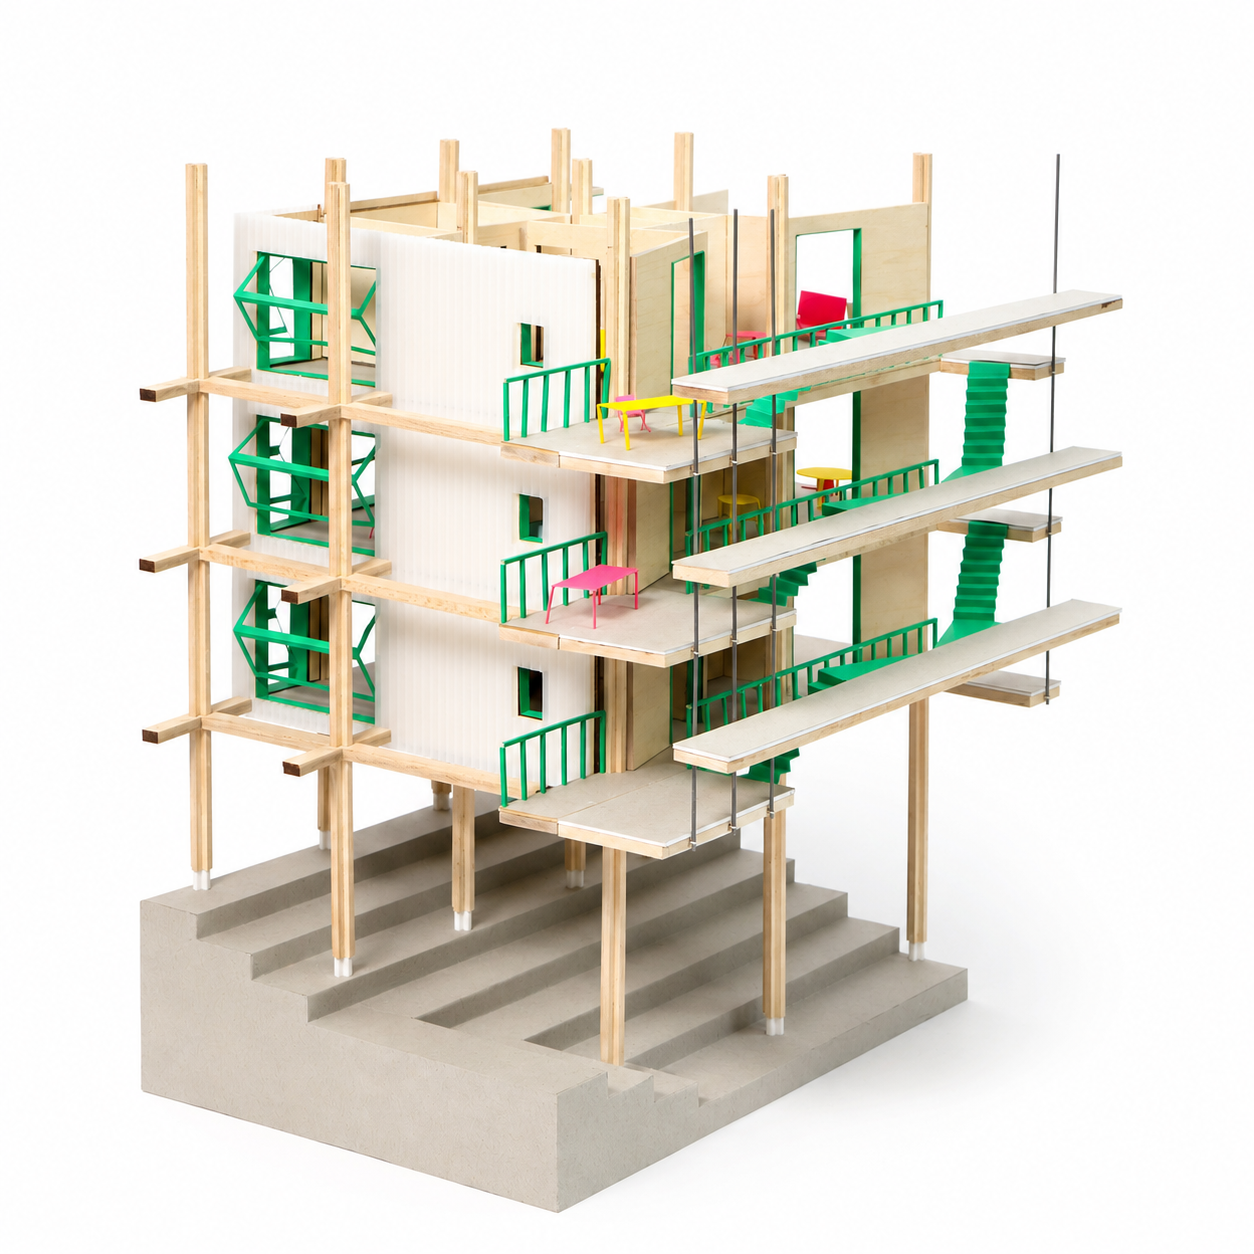
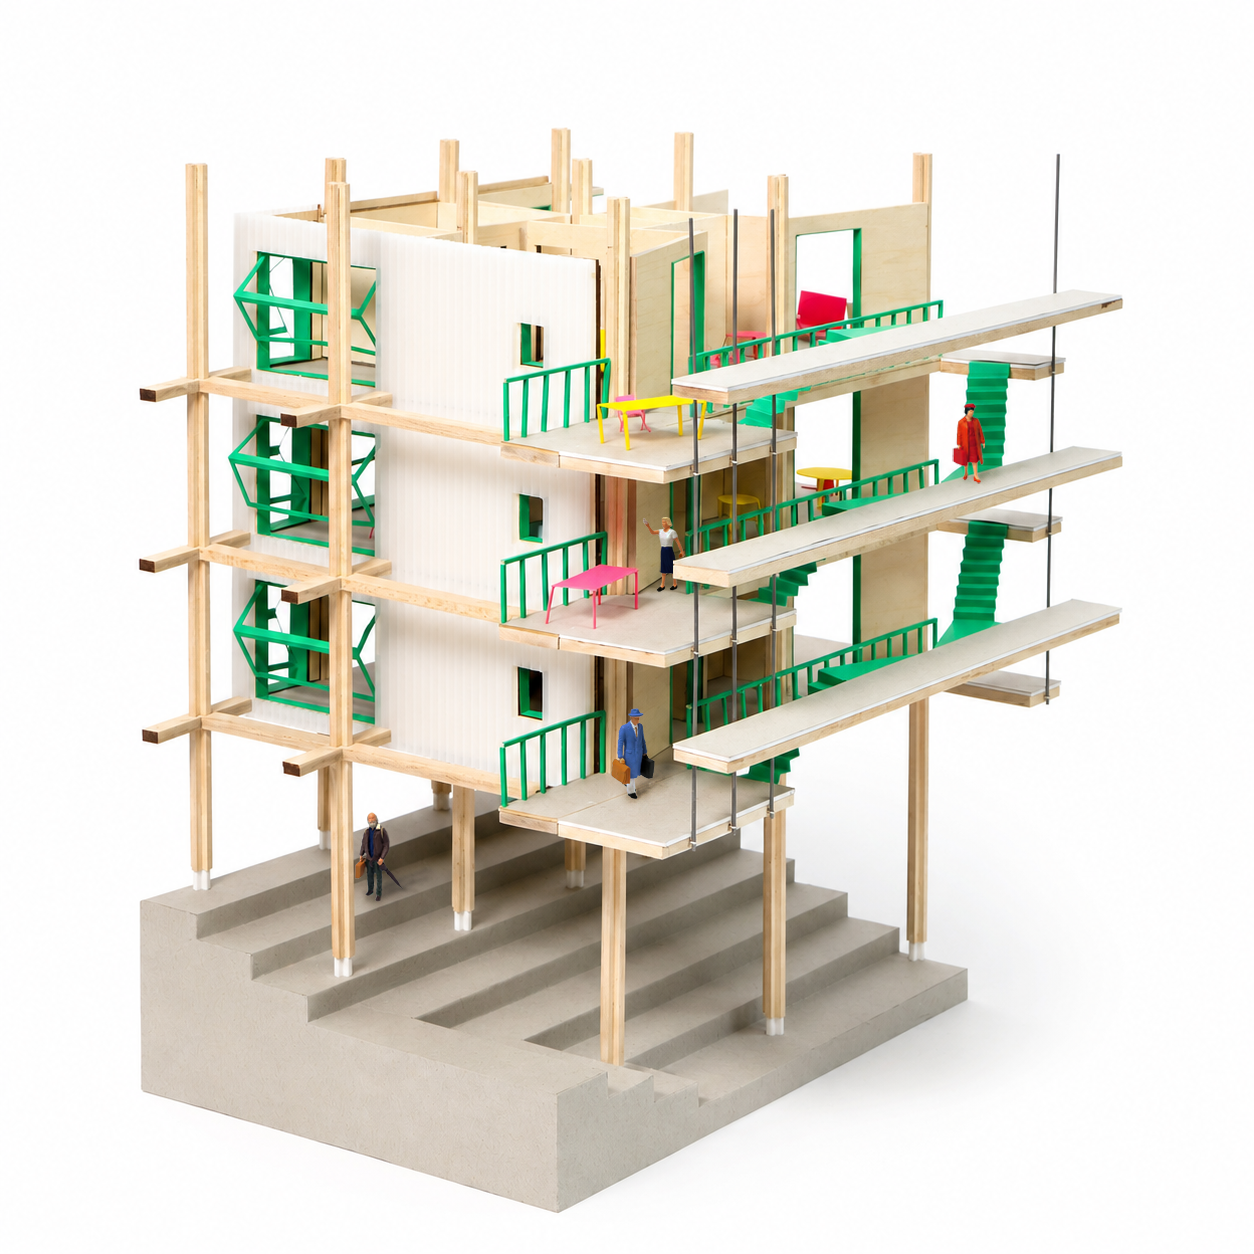
NEW

diff --git a/assets/css/styles.css b/assets/css/styles.css
@@ -3030,8 +3030,9 @@ body.project-lightbox-open .site-cursor {
 }
 
 .project-story-frame--hunters-model-feature img {
-  width: min(86vw, 1180px);
-  max-height: 86vh;
+  width: min(96vw, 1475px);
+  max-width: 96vw;
+  max-height: 107.5vh;
   object-fit: contain;
 }
 
@@ -5840,33 +5841,10 @@ body[data-page="work"] .site-copyright {
 
 /* A deliberately quiet landing page: normal navigation and one centered sentence. */
 body[data-page="landing-minimal"] {
-  display: grid;
-  grid-template-rows: auto minmax(0, 1fr);
-  height: 100svh;
-  min-height: 0;
+  min-height: 100vh;
+  min-height: 100svh;
   overflow: hidden;
   background: var(--bg);
-}
-
-body[data-page="landing-minimal"] .site-header {
-  position: relative;
-  z-index: 2;
-  color: #ffffff;
-  background: transparent;
-  mix-blend-mode: difference;
-}
-
-@media (min-width: 901px) {
-  body[data-page="landing-minimal"] {
-    grid-template-rows: 72px minmax(0, 1fr);
-  }
-
-  body[data-page="landing-minimal"] .site-header {
-    height: 72px;
-    min-height: 72px;
-    padding-top: 0;
-    padding-bottom: 0;
-  }
 }
 
 .minimal-landing {
@@ -5874,8 +5852,10 @@ body[data-page="landing-minimal"] .site-header {
   grid-template-columns: minmax(0, 1.16fr) minmax(280px, 0.74fr);
   align-items: center;
   gap: clamp(82px, 9vw, 156px);
+  min-height: 100vh;
+  min-height: 100svh;
   min-width: 0;
-  min-height: 0;
+  box-sizing: border-box;
   padding:
     clamp(42px, 7vh, 76px)
     clamp(52px, 7vw, 116px)

diff --git a/index.html b/index.html
@@ -38,7 +38,7 @@
     <meta name="twitter:image:alt" content="Portrait of Andrew Wheat">
     <meta property="profile:first_name" content="Andrew">
     <meta property="profile:last_name" content="Wheat">
-    <link rel="stylesheet" href="/assets/css/styles.css?v=20260726-landing-position-lock-v1">
+    <link rel="stylesheet" href="/assets/css/styles.css?v=20260726-hunters-model-size-v2">
     <script id="site-schema" type="application/ld+json">
 {
   "@context": "https://schema.org",
@@ -233,9 +233,9 @@
         <a class="minimal-landing-link" href="/work/">view work</a>
       </div>
     </main>
-    <script src="/assets/js/projects.js?v=20260726-landing-position-lock-v1"></script>
-    <script src="/assets/js/image-optimizations.js?v=20260726-landing-position-lock-v1"></script>
-    <script src="/assets/js/selected-collections.js?v=20260726-landing-position-lock-v1"></script>
-    <script src="/assets/js/main.js?v=20260726-landing-position-lock-v1"></script>
+    <script src="/assets/js/projects.js?v=20260726-hunters-model-size-v2"></script>
+    <script src="/assets/js/image-optimizations.js?v=20260726-hunters-model-size-v2"></script>
+    <script src="/assets/js/selected-collections.js?v=20260726-hunters-model-size-v2"></script>
+    <script src="/assets/js/main.js?v=20260726-hunters-model-size-v2"></script>
   </body>
 </html>

diff --git a/assets/js/image-optimizations.js b/assets/js/image-optimizations.js
@@ -67,7 +67,7 @@ window.PORTFOLIO_OPTIMIZED_IMAGES = {
   "assets/images/Projects/Hunter's Point Cooperative Housing/hero.png": "assets/images/optimized/hero-71062e50a9.webp",
   "assets/images/Projects/Hunter's Point Cooperative Housing/Laundry.png": "assets/images/optimized/laundry-da573c4993.webp",
   "assets/images/Projects/Hunter's Point Cooperative Housing/Market Render.png": "assets/images/optimized/market-render-0a6e70a022.webp",
-  "assets/images/Projects/Hunter's Point Cooperative Housing/Model full shot.png": "assets/images/optimized/model-full-shot-a481e28919.webp",
+  "assets/images/Projects/Hunter's Point Cooperative Housing/Model full shot.png": "assets/images/optimized/model-full-shot-f3703fe1ba.webp",
   "assets/images/Projects/Hunter's Point Cooperative Housing/Speculative Circulation model.png": "assets/images/optimized/speculative-circulation-model-1a490fb218.webp",
   "assets/images/Projects/Hunter's Point Cooperative Housing/Unit Render.png": "assets/images/optimized/unit-render-c70ec4b5c5.webp",
   "assets/images/Projects/Hunter's Point Cooperative Housing/Workshop Stack 1.png": "assets/images/optimized/workshop-stack-1-8ecd5972a8.webp",

diff --git a/404.html b/404.html
@@ -37,7 +37,7 @@
     <meta name="twitter:image" content="https://andrew-wheat.com/assets/images/seo/andrew-wheat-portrait-4x3.jpg">
     <meta name="twitter:image:alt" content="Portrait of Andrew Wheat">
 
-    <link rel="stylesheet" href="/assets/css/styles.css?v=20260726-landing-position-lock-v1">
+    <link rel="stylesheet" href="/assets/css/styles.css?v=20260726-hunters-model-size-v2">
     <script id="site-schema" type="application/ld+json">
 {
   "@context": "https://schema.org",
@@ -208,8 +208,8 @@
     <footer class="site-copyright" aria-label="Copyright">
       &copy; Andrew Wheat 2026
     </footer>
-    <script src="/assets/js/projects.js?v=20260726-landing-position-lock-v1"></script>
-    <script src="/assets/js/selected-collections.js?v=20260726-landing-position-lock-v1"></script>
-    <script src="/assets/js/main.js?v=20260726-landing-position-lock-v1"></script>
+    <script src="/assets/js/projects.js?v=20260726-hunters-model-size-v2"></script>
+    <script src="/assets/js/selected-collections.js?v=20260726-hunters-model-size-v2"></script>
+    <script src="/assets/js/main.js?v=20260726-hunters-model-size-v2"></script>
   </body>
 </html>

diff --git a/project/hunters-point/index.html b/project/hunters-point/index.html
@@ -37,7 +37,7 @@
     <meta name="twitter:image" content="https://andrew-wheat.com/assets/images/Projects/Hunter&#39;s%20Point%20Cooperative%20Housing/Model%20full%20shot.png">
     <meta name="twitter:image:alt" content="Hunter&#39;s Point Cooperative Housing architecture project by Andrew Wheat">
 
-    <link rel="stylesheet" href="/assets/css/styles.css?v=20260726-landing-position-lock-v1">
+    <link rel="stylesheet" href="/assets/css/styles.css?v=20260726-hunters-model-size-v2">
     <script id="site-schema" type="application/ld+json">
 {
   "@context": "https://schema.org",

diff --git a/work.html b/work.html
@@ -37,7 +37,7 @@
     <meta name="twitter:image" content="https://andrew-wheat.com/assets/images/Projects/Hunter&#39;s%20Point%20Cooperative%20Housing/Model%20full%20shot.png">
     <meta name="twitter:image:alt" content="Hunter&#39;s Point Cooperative Housing architecture project by Andrew Wheat">
 
-    <link rel="stylesheet" href="/assets/css/styles.css?v=20260726-landing-position-lock-v1">
+    <link rel="stylesheet" href="/assets/css/styles.css?v=20260726-hunters-model-size-v2">
     <script id="site-schema" type="application/ld+json">
 {
   "@context": "https://schema.org",

diff --git a/work/index.html b/work/index.html
@@ -37,7 +37,7 @@
     <meta name="twitter:image" content="https://andrew-wheat.com/assets/images/Projects/Hunter&#39;s%20Point%20Cooperative%20Housing/Model%20full%20shot.png">
     <meta name="twitter:image:alt" content="Hunter&#39;s Point Cooperative Housing architecture project by Andrew Wheat">
 
-    <link rel="stylesheet" href="/assets/css/styles.css?v=20260726-landing-position-lock-v1">
+    <link rel="stylesheet" href="/assets/css/styles.css?v=20260726-hunters-model-size-v2">
     <script id="site-schema" type="application/ld+json">
 {
   "@context": "https://schema.org",

diff --git a/project/design-district-canteen/index.html b/project/design-district-canteen/index.html
@@ -37,7 +37,7 @@
     <meta name="twitter:image" content="https://andrew-wheat.com/assets/images/Projects/Design%20District%20Canteen/Model%20Front%20View%20Shot%2003%20reduced.png">
     <meta name="twitter:image:alt" content="Design District Canteen architecture project by Andrew Wheat">
 
-    <link rel="stylesheet" href="/assets/css/styles.css?v=20260726-landing-position-lock-v1">
+    <link rel="stylesheet" href="/assets/css/styles.css?v=20260726-hunters-model-size-v2">
     <script id="site-schema" type="application/ld+json">
 {
   "@context": "https://schema.org",

diff --git a/project/deconstruct-reconfigure/index.html b/project/deconstruct-reconfigure/index.html
@@ -37,7 +37,7 @@
     <meta name="twitter:image" content="https://andrew-wheat.com/assets/images/Projects/[de]construct%20+%20[re]configure/DO4A0315.png">
     <meta name="twitter:image:alt" content="[de]construct + [re]configure architecture project by Andrew Wheat">
 
-    <link rel="stylesheet" href="/assets/css/styles.css?v=20260726-landing-position-lock-v1">
+    <link rel="stylesheet" href="/assets/css/styles.css?v=20260726-hunters-model-size-v2">
     <script id="site-schema" type="application/ld+json">
 {
   "@context": "https://schema.org",

diff --git a/project/enfield-food-pantry/index.html b/project/enfield-food-pantry/index.html
@@ -37,7 +37,7 @@
     <meta name="twitter:image" content="https://andrew-wheat.com/assets/images/Projects/Enfield%20Food%20Pantry/3X6A0280%20cropped%20SMALLER.png">
     <meta name="twitter:image:alt" content="Enfield Food Pantry architecture project by Andrew Wheat">
 
-    <link rel="stylesheet" href="/assets/css/styles.css?v=20260726-landing-position-lock-v1">
+    <link rel="stylesheet" href="/assets/css/styles.css?v=20260726-hunters-model-size-v2">
     <script id="site-schema" type="application/ld+json">
 {
   "@context": "https://schema.org",

diff --git a/project/borinquen-healing-center/index.html b/project/borinquen-healing-center/index.html
@@ -37,7 +37,7 @@
     <meta name="twitter:image" content="https://andrew-wheat.com/assets/images/work-covers/borinquen-healing-center.webp">
     <meta name="twitter:image:alt" content="Borinquen Healing Center architecture project by Andrew Wheat">
 
-    <link rel="stylesheet" href="/assets/css/styles.css?v=20260726-landing-position-lock-v1">
+    <link rel="stylesheet" href="/assets/css/styles.css?v=20260726-hunters-model-size-v2">
     <script id="site-schema" type="application/ld+json">
 {
   "@context": "https://schema.org",

diff --git a/project/sustainable-education/index.html b/project/sustainable-education/index.html
@@ -37,7 +37,7 @@
     <meta name="twitter:image" content="https://andrew-wheat.com/assets/images/work-covers/sustainable-education-nepal.webp">
     <meta name="twitter:image:alt" content="Sustainable Education architecture project by Andrew Wheat">
 
-    <link rel="stylesheet" href="/assets/css/styles.css?v=20260726-landing-position-lock-v1">
+    <link rel="stylesheet" href="/assets/css/styles.css?v=20260726-hunters-model-size-v2">
     <script id="site-schema" type="application/ld+json">
 {
   "@context": "https://schema.org",
